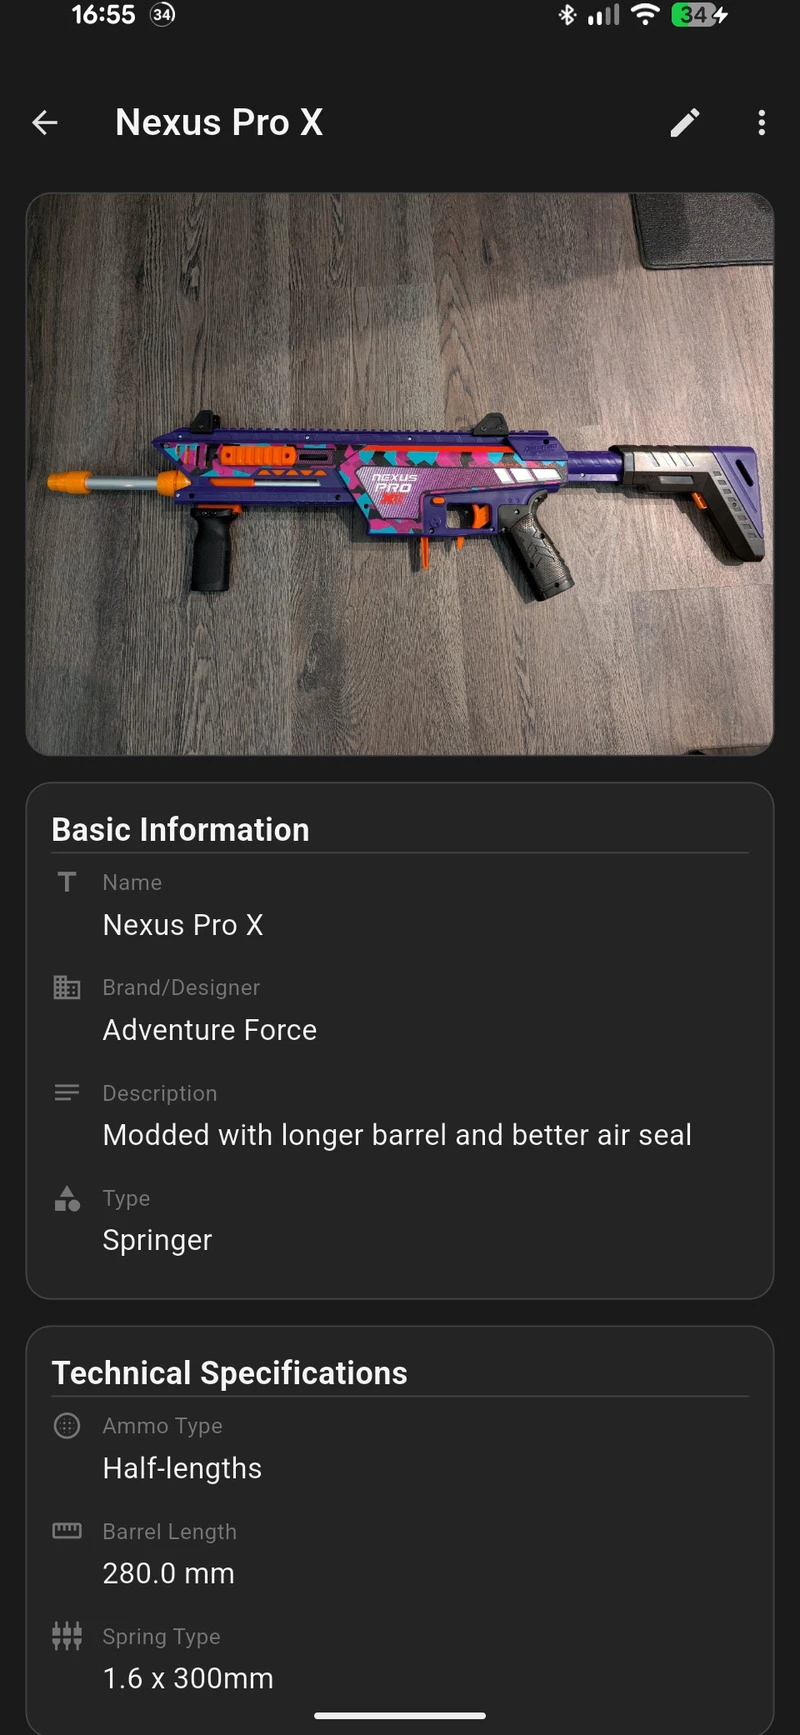
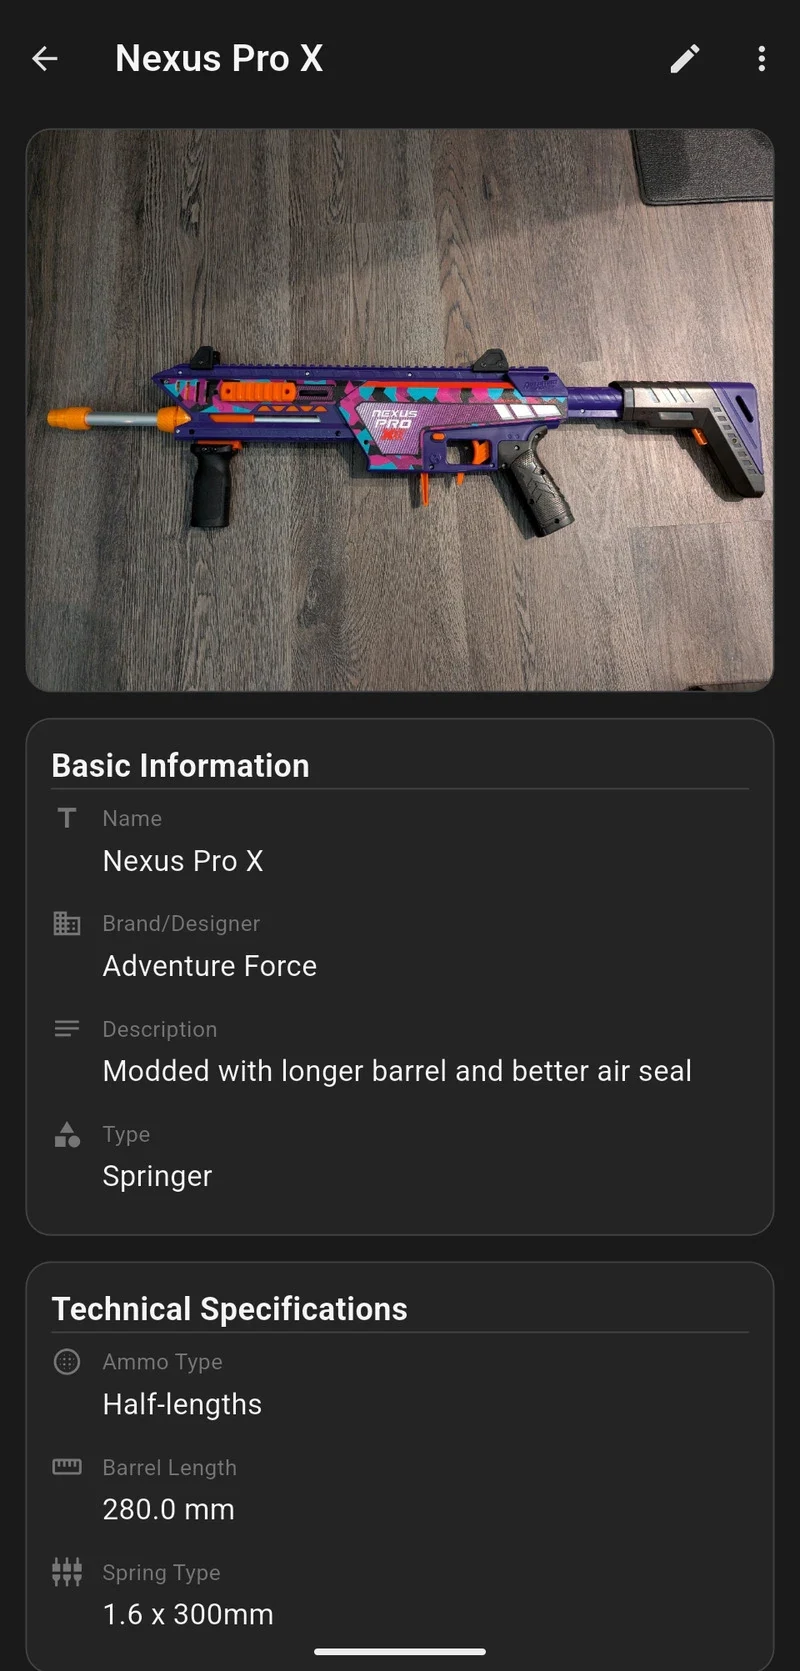
Crop phone status bar from Blasterscribe screenshots
Trim the top 64px from the three carousel images and update the
img height attributes to match.

diff --git a/projects/blasterscribe/index.html b/projects/blasterscribe/index.html
@@ -49,21 +49,21 @@
         <section class="carousel carousel-portrait" data-autoplay aria-roledescription="carousel" aria-label="Screenshots of the Blasterscribe app">
           <div class="carousel-slides">
             <figure class="carousel-slide" aria-roledescription="slide" aria-label="1 of 3">
-              <img src="/assets/images/blasterscribe/catalog-tile.webp" loading="lazy" width="800" height="1735" alt="Blasterscribe collection screen: a search bar above a two-column grid of blaster photo tiles, each showing the name, brand, barrel length and a velocity badge">
+              <img src="/assets/images/blasterscribe/catalog-tile.webp" loading="lazy" width="800" height="1671" alt="Blasterscribe collection screen: a search bar above a two-column grid of blaster photo tiles, each showing the name, brand, barrel length and a velocity badge">
               <figcaption>
                 <span class="carousel-title">The collection</span>
                 A searchable grid of tiles, each with the blaster's photo, brand, barrel length and average velocity.
               </figcaption>
             </figure>
             <figure class="carousel-slide" aria-roledescription="slide" aria-label="2 of 3">
-              <img src="/assets/images/blasterscribe/blaster-detail.webp" loading="lazy" width="800" height="1735" alt="Blasterscribe detail screen for a springer blaster, with its photo, basic information, and technical specifications such as ammo type, barrel length and spring type">
+              <img src="/assets/images/blasterscribe/blaster-detail.webp" loading="lazy" width="800" height="1671" alt="Blasterscribe detail screen for a springer blaster, with its photo, basic information, and technical specifications such as ammo type, barrel length and spring type">
               <figcaption>
                 <span class="carousel-title">Blaster detail</span>
                 A springer's page, with spring and barrel specs. A flywheel or high-pressure air blaster would show its own set of fields instead.
               </figcaption>
             </figure>
             <figure class="carousel-slide" aria-roledescription="slide" aria-label="3 of 3">
-              <img src="/assets/images/blasterscribe/performance.webp" loading="lazy" width="800" height="1735" alt="Blasterscribe performance screen showing min, max, average and standard deviation of muzzle velocity for a 15-shot session, above a line chart of velocity by shot number">
+              <img src="/assets/images/blasterscribe/performance.webp" loading="lazy" width="800" height="1671" alt="Blasterscribe performance screen showing min, max, average and standard deviation of muzzle velocity for a 15-shot session, above a line chart of velocity by shot number">
               <figcaption>
                 <span class="carousel-title">Chronograph session</span>
                 Min, max, average and standard deviation for a 15-shot session, with a shot-by-shot chart of velocity.
